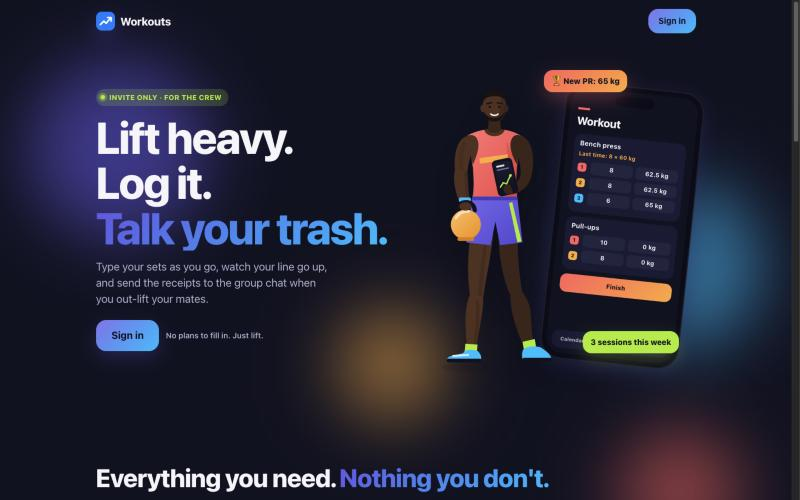
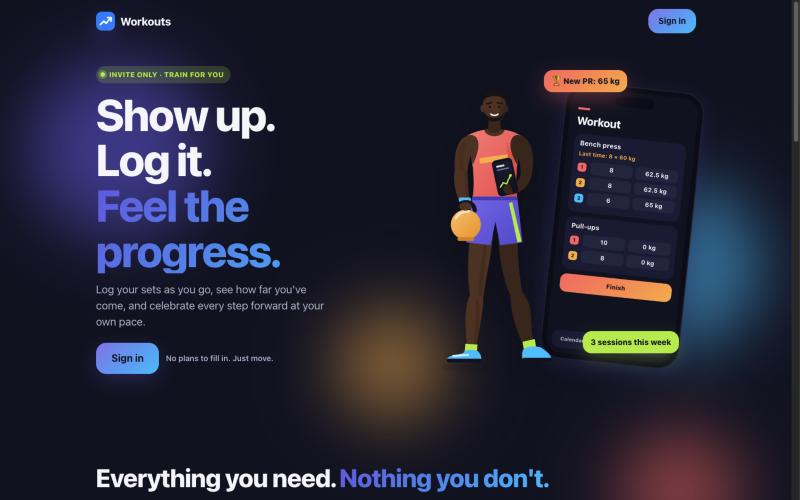
Reframe landing copy around self-improvement and wellbeing

Changed region(s): [[0.0938, 0.12, 0.5, 0.78]]

diff --git a/frontend/index.html b/frontend/index.html
@@ -37,12 +37,12 @@
         <span class="blob v"></span><span class="blob s"></span><span class="blob m"></span>
         <div class="hero-grid">
           <div class="reveal">
-            <span class="eyebrow">Invite only · for the crew</span>
-            <h1><span class="ln">Lift heavy.</span> <span class="ln">Log it.</span> <span class="ln grad-text">Talk your trash.</span></h1>
-            <p class="sub">Type your sets as you go, watch your line go up, and send the receipts to the group chat when you out-lift your mates.</p>
+            <span class="eyebrow">Invite only · train for you</span>
+            <h1><span class="ln">Show up.</span> <span class="ln">Log it.</span> <span class="ln grad-text">Feel the progress.</span></h1>
+            <p class="sub">Log your sets as you go, see how far you've come, and celebrate every step forward at your own pace.</p>
             <div class="cta-row">
               <button class="btn primary" data-sign-in>Sign in</button>
-              <span class="note">No plans to fill in. Just lift.</span>
+              <span class="note">No plans to fill in. Just move.</span>
             </div>
           </div>
           <div class="hero-art reveal">
@@ -88,7 +88,7 @@
           <article class="card feature mango reveal">
             <div class="ic"><svg viewBox="0 0 24 24" aria-hidden="true"><path d="M12 3v12M7 8l5-5 5 5M5 13v6a2 2 0 0 0 2 2h10a2 2 0 0 0 2-2v-6"/></svg></div>
             <h3>Share your session</h3>
-            <p>Turn any workout into a card with your PRs on it. Screenshots are for amateurs.</p>
+            <p>Turn any workout into a card worth celebrating, with your personal bests on it.</p>
           </article>
         </div>
       </section>
@@ -96,11 +96,11 @@
       <section class="lp-section" aria-labelledby="how-h">
         <span class="blob l" style="width:200px;height:200px;left:-90px;bottom:0"></span>
         <h2 id="how-h" class="reveal">How it works</h2>
-        <p class="lede reveal">Three steps. You've done harder things before breakfast.</p>
+        <p class="lede reveal">Three simple steps that fit around your day.</p>
         <ol class="steps">
           <li class="card reveal" style="--c:var(--coral)"><span class="num">1</span><div><h3>Start a workout</h3><p>Tap Start Workout. It's dated today and ready to go.</p></div></li>
           <li class="card reveal" style="--c:var(--mango)"><span class="num">2</span><div><h3>Add sets as you go</h3><p>Reps and weight, set by set. Close the app mid-session and it's still there.</p></div></li>
-          <li class="card reveal" style="--c:var(--lime)"><span class="num">3</span><div><h3>Watch the line go up</h3><p>Finish, catch your PR, check the chart. Then remind everyone.</p></div></li>
+          <li class="card reveal" style="--c:var(--lime)"><span class="num">3</span><div><h3>Watch the line go up</h3><p>Finish, celebrate your personal bests, and see the progress you've built.</p></div></li>
         </ol>
       </section>
 
@@ -143,13 +143,13 @@
                 </svg></div>
               <div class="m-stat"><div><strong>82 kg</strong><em>Best est. 1RM</em></div><div><strong>+12%</strong><em>Since September</em></div></div>
               <div class="m-tab"><span>Calendar</span><span>Workout</span><span class="on">Progress</span></div>
-            </div></div><figcaption>Proof you're getting stronger</figcaption></figure>
+            </div></div><figcaption>See how far you've come</figcaption></figure>
         </div>
       </section>
 
       <section class="lp-cta reveal" aria-labelledby="cta-h">
         <h2 id="cta-h">Ready to train?</h2>
-        <p>Your mates are already logging. Don't be the one with nothing to show.</p>
+        <p>Small, steady sessions add up. Start where you are.</p>
         <button class="btn" data-sign-in>Sign in</button>
         <p class="invite">Invite only. Ask Courtney for an account.</p>
       </section>
@@ -252,7 +252,7 @@
       <div id="prog-empty" class="empty-state" hidden>
         <img class="art" src="assets/athlete.svg" alt="" width="150" height="300">
         <p class="lead">No line to draw yet.</p>
-        <p>Finish a workout and your progress shows up here. Then it only goes up.</p>
+        <p>Finish a workout and your progress shows up here. Every session counts.</p>
       </div>
     </section>
 
